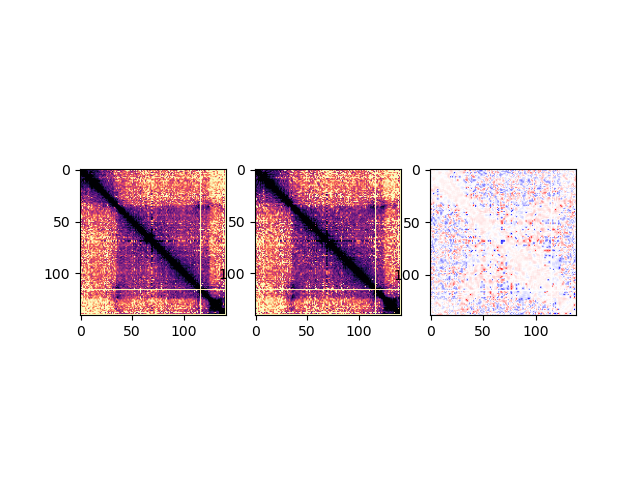
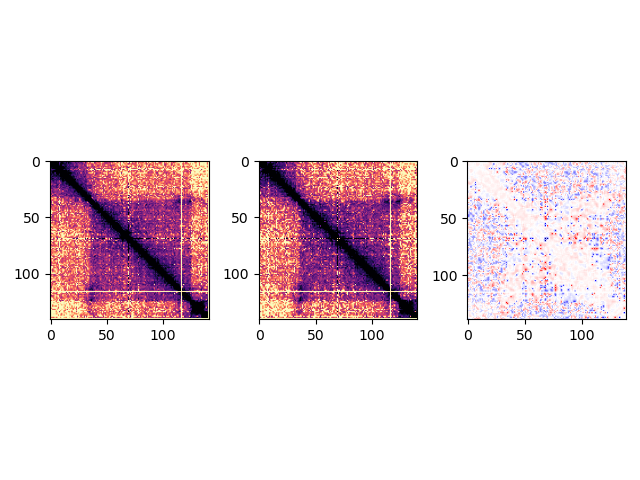
update

Changed region(s): [[0.0312, 0.3125, 1.0, 0.7188]]

diff --git a/week6-homework/part2.py b/week6-homework/part2.py
@@ -136,7 +136,7 @@ ax[0].imshow(empty1, cmap = "magma_r", vmax = 4)
 ax[1].imshow(empty2, cmap = "magma_r", vmax = 4)
 ax[2].imshow(empty3, cmap = "seismic", norm = colors.CenteredNorm())
 
-## labeling
+sfig.tight_layout(pad=1.0)
 plt.savefig("three_plots_subsampled.png")
 plt.show()
 

diff --git a/week6-homework/full.py b/week6-homework/full.py
@@ -140,7 +140,6 @@ ax[0].imshow(empty1, cmap = "magma_r", vmax = 10)
 ax[1].imshow(empty2, cmap = "magma_r", vmax = 10)
 ax[2].imshow(empty3, cmap = "seismic", norm = colors.CenteredNorm())
 
-## labeling
-
+fig.tight_layout(pad=1.0)
 plt.savefig("three_plots_total.png")
 plt.show()
